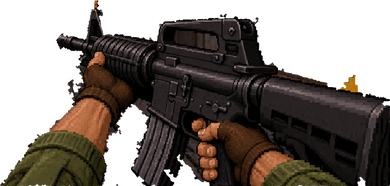
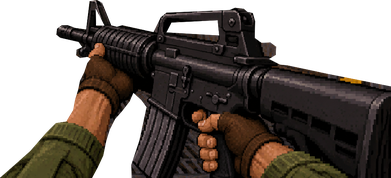
EOD 0.8.25: weapon frames from the clean sprite pack; Carbine magazine reload frame

diff --git a/EOD/editor.html b/EOD/editor.html
@@ -197,7 +197,7 @@ a.brand{color:var(--text);text-decoration:none}
 <script id="nsde-main">
 'use strict';
 /* EOD · Editor of Doom (engine from No Shit Doom Editor) — Pulse Labs Studio */
-const VERSION = '0.8.24', VC = 44;
+const VERSION = '0.8.25', VC = 45;
 const ORIGINAL_HTML = '<!DOCTYPE html>\n' + document.documentElement.outerHTML;
 const $ = s => document.querySelector(s);
 const clamp = (v, a, b) => v < a ? a : v > b ? b : v;
@@ -2994,7 +2994,7 @@ function drawWeaponRes(g, W, H, u, bx, by) {
 }
 function drawWeapon(g, W, H, u) {
   const p = G.p, bx = Math.sin(p.bob * 0.5) * 6 * u * Math.min(1, Math.hypot(p.vx, p.vy) / 4); let by = Math.abs(Math.cos(p.bob * 0.5)) * 4 * u * Math.min(1, Math.hypot(p.vx, p.vy) / 4);
-  if (p.reloadT > 0 && !p.reloadDelay && p.reload0 && p.reloadW === p.w && !(WEAPONS[p.w].custom && WEAPONS[p.w].custom.reloadAnim)) { const k = 1 - p.reloadT / p.reload0; by += Math.sin(Math.PI * k) * 70 * u; }
+  if (p.reloadT > 0 && !p.reloadDelay && p.reload0 && p.reloadW === p.w && !(WEAPONS[p.w].custom && (WEAPONS[p.w].custom.reloadAnim || (() => { const c = WEAPONS[p.w].custom, a = c.look && c.look.art && artWep(c.look.art); return a && a.painted && a.reload; })()))) { const k = 1 - p.reloadT / p.reload0; by += Math.sin(Math.PI * k) * 70 * u; }
   if (WEAPONS[p.w] && WEAPONS[p.w].custom) { drawCustomWeapon(g, W, H, u, bx, by); return; }
   if (drawWeaponRes(g, W, H, u, bx, by)) return;
   const cx = W / 2 + bx, base = H - 34 * u + by + (p.fireT > 3 ? 4 * u : 0), w = p.w;

diff --git a/EOD/engine/src/10_gameui.js b/EOD/engine/src/10_gameui.js
@@ -215,7 +215,7 @@ function drawWeaponRes(g, W, H, u, bx, by) {
 }
 function drawWeapon(g, W, H, u) {
   const p = G.p, bx = Math.sin(p.bob * 0.5) * 6 * u * Math.min(1, Math.hypot(p.vx, p.vy) / 4); let by = Math.abs(Math.cos(p.bob * 0.5)) * 4 * u * Math.min(1, Math.hypot(p.vx, p.vy) / 4);
-  if (p.reloadT > 0 && !p.reloadDelay && p.reload0 && p.reloadW === p.w && !(WEAPONS[p.w].custom && WEAPONS[p.w].custom.reloadAnim)) { const k = 1 - p.reloadT / p.reload0; by += Math.sin(Math.PI * k) * 70 * u; }
+  if (p.reloadT > 0 && !p.reloadDelay && p.reload0 && p.reloadW === p.w && !(WEAPONS[p.w].custom && (WEAPONS[p.w].custom.reloadAnim || (() => { const c = WEAPONS[p.w].custom, a = c.look && c.look.art && artWep(c.look.art); return a && a.painted && a.reload; })()))) { const k = 1 - p.reloadT / p.reload0; by += Math.sin(Math.PI * k) * 70 * u; }
   if (WEAPONS[p.w] && WEAPONS[p.w].custom) { drawCustomWeapon(g, W, H, u, bx, by); return; }
   if (drawWeaponRes(g, W, H, u, bx, by)) return;
   const cx = W / 2 + bx, base = H - 34 * u + by + (p.fireT > 3 ? 4 * u : 0), w = p.w;

diff --git a/EOD/engine/src/01_core.js b/EOD/engine/src/01_core.js
@@ -1,6 +1,6 @@
 'use strict';
 /* EOD · Editor of Doom (engine from No Shit Doom Editor) — Pulse Labs Studio */
-const VERSION = '0.8.24', VC = 44;
+const VERSION = '0.8.25', VC = 45;
 const ORIGINAL_HTML = '<!DOCTYPE html>\n' + document.documentElement.outerHTML;
 const $ = s => document.querySelector(s);
 const clamp = (v, a, b) => v < a ? a : v > b ? b : v;

diff --git a/EOD/assets/config.js b/EOD/assets/config.js
@@ -6,5 +6,5 @@ window.EOD_CONFIG = {
   SUPABASE_URL: '',
   SUPABASE_ANON_KEY: '',
   SITE_NAME: 'EOD · Editor of Doom',
-  VERSION: '0.8.24'
+  VERSION: '0.8.25'
 };

diff --git a/EOD/tools/cut_weapon.py b/EOD/tools/cut_weapon.py
@@ -1,7 +1,8 @@
 #!/usr/bin/env python3
 """Cut a painted first-person weapon frame out of a flat background and size it for the game.
 
-Two ways in:
+Three ways in:
+  * frames that are already transparent PNGs (full-screen size): their own alpha is used as-is.
   * --plate corridor.png: the frames are painted over a scene, and the plate is the same scene with
     nothing in it. Every pixel that differs from the plate is the gun/hands. Exact cut, keeps the art.
   * no plate: the gun and hands sit on one flat color (magenta #FF00FF is best, white works).
@@ -78,7 +79,10 @@ def main():
         if o.bar:
             im = im.crop((0, 0, W, int(H * 0.84))); H = im.size[1]
             if plate: plate = plate.resize((W, round(plate.size[1] * W / plate.size[0]))).crop((0, 0, W, H))
-        rgba = plate_out(im, plate, tol=o.tol, keep_floating=o.floating) if plate else key_out(im)
+        if im.mode == 'RGBA' and np.asarray(im)[..., 3].min() < 10:  # already cut out: use its own transparency
+            rgba = np.asarray(im).copy()
+        else:
+            rgba = plate_out(im, plate, tol=o.tol, keep_floating=o.floating) if plate else key_out(im)
         ys, xs = np.where(rgba[..., 3] > 16)
         x0, x1, y0, y1 = xs.min(), xs.max() + 1, ys.min(), ys.max() + 1
         s = basis / W

diff --git a/EOD/docs/CHANGELOG.md b/EOD/docs/CHANGELOG.md
@@ -10,6 +10,13 @@
 - Built-in node builder so exported WADs also run in Chrome/Chocolate Doom
 - Everything queued for the engine in No Shit Doom Editor (curve/grid drawing, blockmap speed-up, grates)
 
+## v0.8.25 (vc45) — 2026-11-22 — the clean sprite pack
+- **All weapon frames swapped for the clean, pre-cut sprites** from James's Weapon-Sprites pack (transparent PNGs, same paintings): Coach Gun 01 Ready … 07 Close and AR-15 08 Ready … 11 Magazine Out. No more corridor bits around the edges from cutting.
+- **Coach Gun reload:** open (shells kicking out) → eject → load → close.
+- **Carbine magazine reload:** after 30 shots the painted magazine-out frame plays (magazine in the left hand), then back up to fire.
+- Cutter tool: frames that are already transparent are used as they are.
+- Source pack kept in `EOD/docs/art/source/zip-2026-11-22/`.
+
 ## v0.8.24 (vc44) — 2026-11-22 — Carbine second firing frame
 - **Full-auto flicker is all painted now:** the Carbine alternates the two painted firing frames (big flash / smaller flash) shot to shot, with the aiming frame between shots; brass still flies out to the right.
 

diff --git a/EOD/docs/PROJECT_OVERVIEW.md b/EOD/docs/PROJECT_OVERVIEW.md
@@ -1,6 +1,6 @@
 # EOD · Editor of Doom — Project Overview
 
-**Owner:** Pulse Labs Studio · **Version:** 0.8.24 · **Started:** 2026-11-16 · **Repo:** `editor-of-doom` (GitHub Pages)
+**Owner:** Pulse Labs Studio · **Version:** 0.8.25 · **Started:** 2026-11-16 · **Repo:** `editor-of-doom` (GitHub Pages)
 
 ## Goal
 A free, open web home for classic Doom mapping: an editor that feels like Ultimate Doom Builder, one-tap play on any device and input (touch, keyboard+mouse, Xbox/standard controllers), and a community map library + forums. Nothing like this existed when we checked (Nov 2026): DoomScroll plays WADs in a browser but has no editor or accounts; web editors (JZBuilder, WAD.js) are prototypes; SnapMap (Doom 2016) had the share/remix loop but only inside that game.

diff --git a/EOD/docs/HISTORY.md b/EOD/docs/HISTORY.md
@@ -120,3 +120,4 @@ The story of how EOD came to be, in the owner's words where possible.
 - James, at the end of UAC Corridor with every monster dead: *"i cant advance any further and wtf is that skull thing in a baloon doing?"* → 0.8.22: the 32-unit ledge got a step; the skull in a bubble is Freedoom's Soulsphere.
 - James sent a redone centered firing frame for the Carbine (same rifle as the carry pose): *"this is better"* → 0.8.23.
 - James sent the Carbine's second firing frame (smaller flash) → 0.8.24.
+- James sent Weapon-Sprites.zip: every frame as a clean transparent PNG (Coach Gun 01–07, AR-15 08–11 incl. Magazine Out) → 0.8.25.

diff --git a/docs/CHANGELOG.md b/docs/CHANGELOG.md
@@ -1,5 +1,8 @@
 # Changelog
 
+## v0.7.45 — 2026-11-22
+- EOD 0.8.25: weapon frames from the clean sprite pack; Carbine magazine reload frame.
+
 ## v0.7.44 — 2026-11-22
 - EOD 0.8.24: Carbine alternates two painted firing frames.
 
